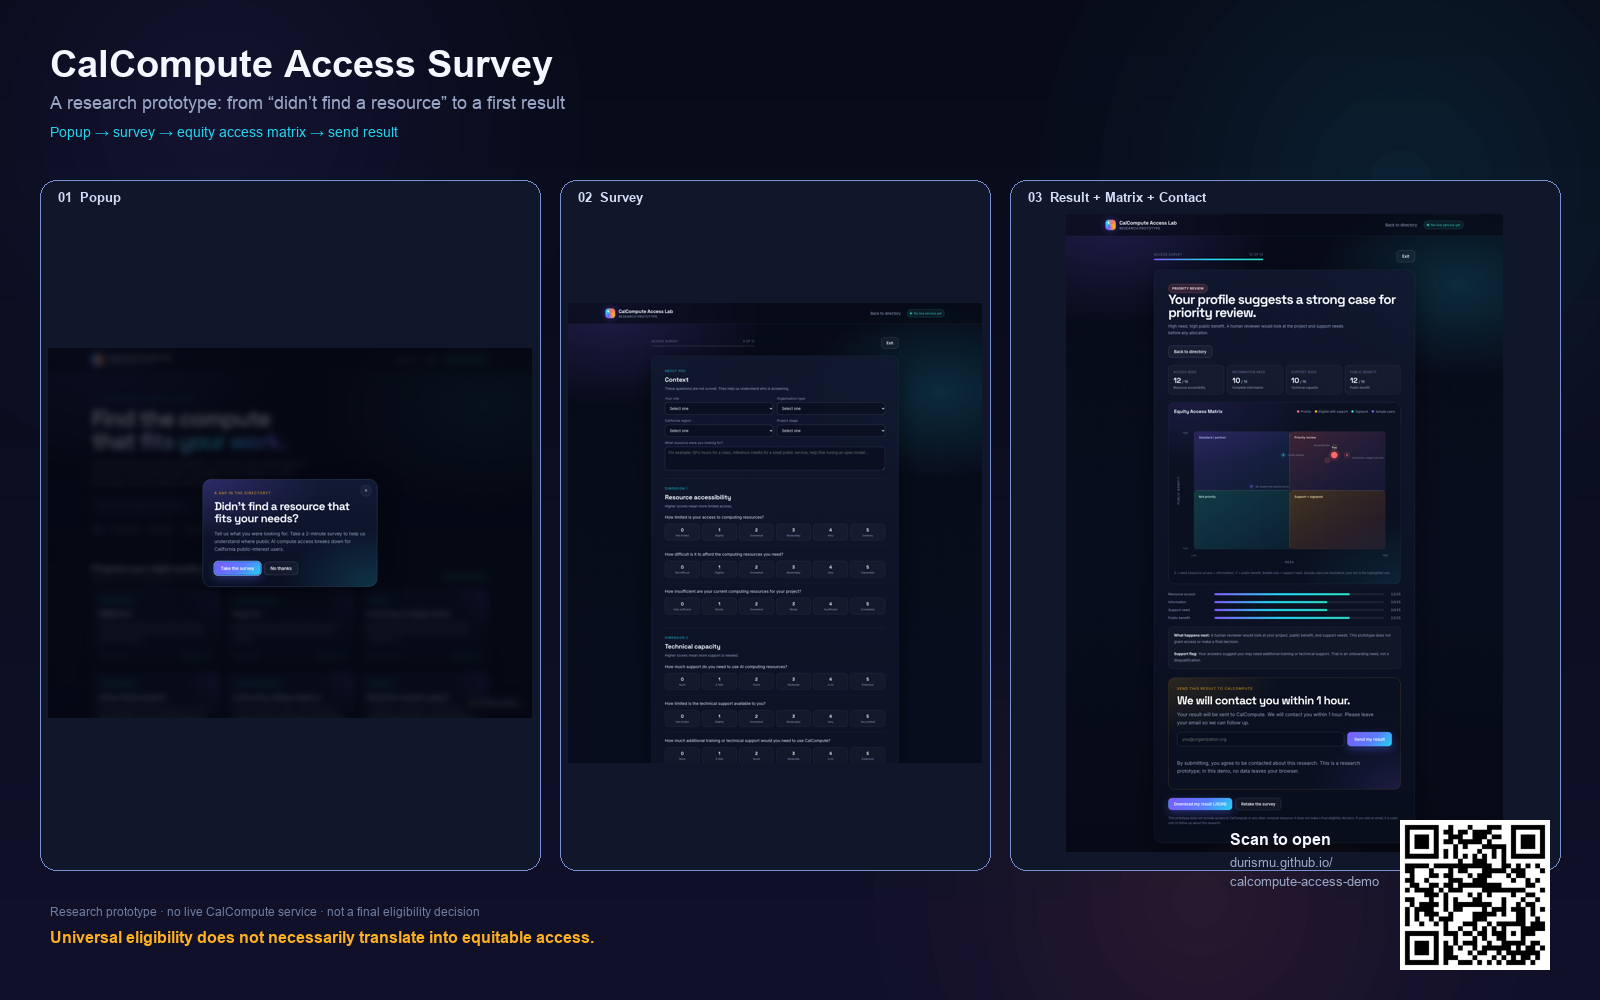
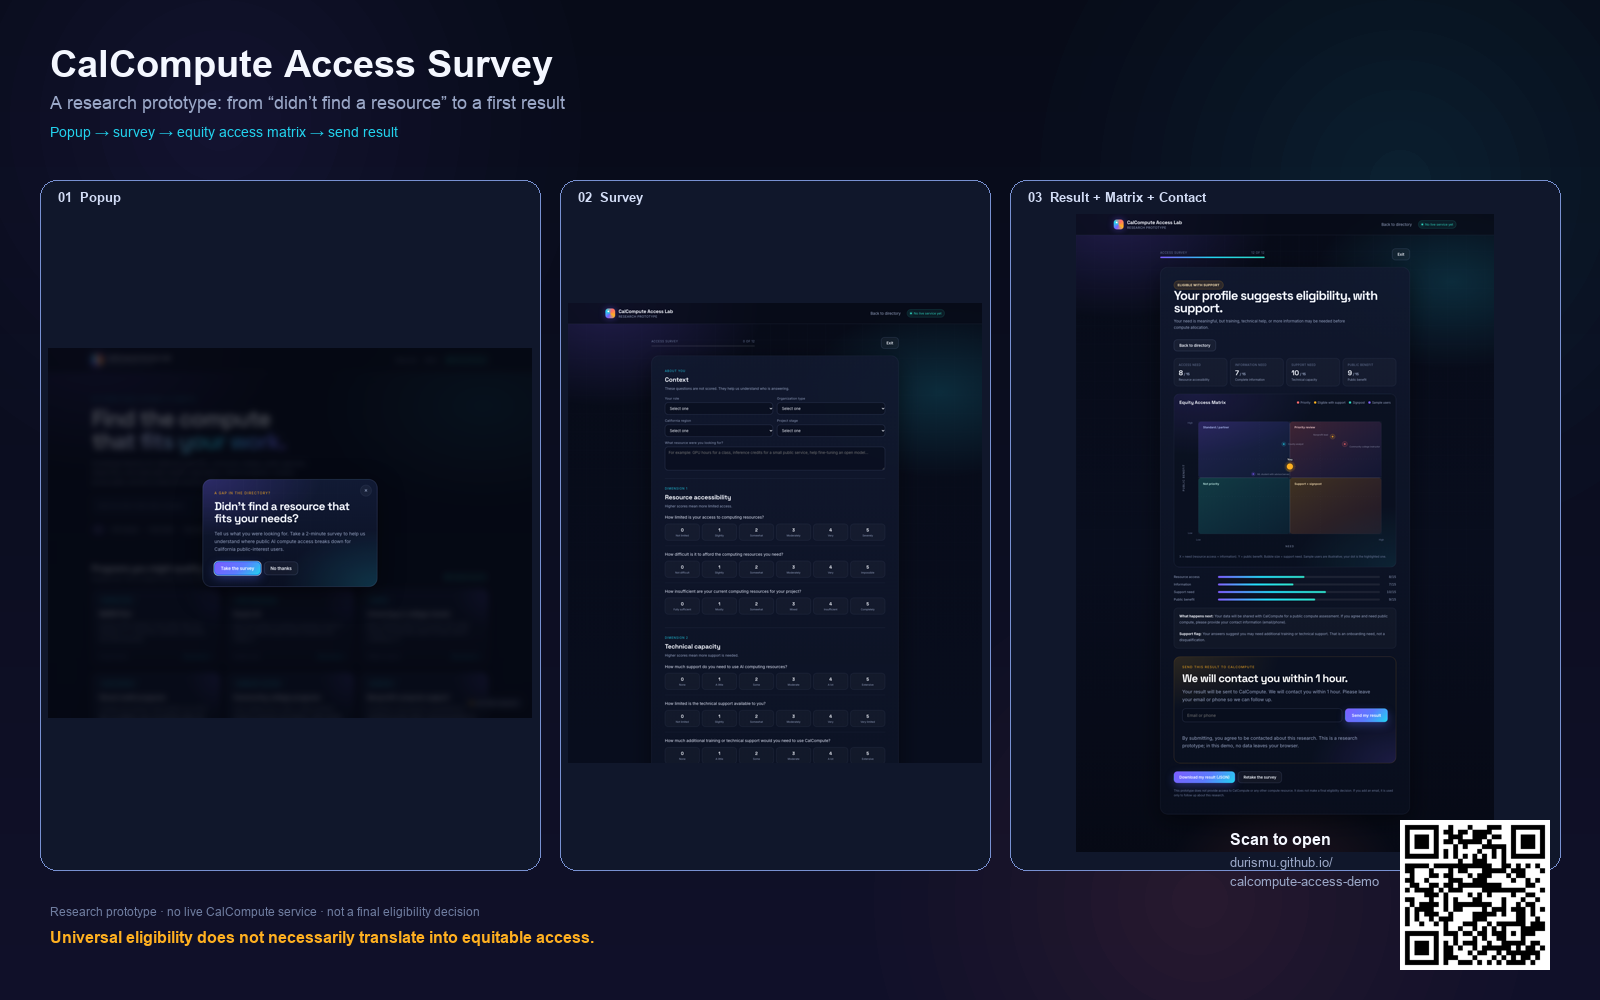
Update support result copy and contact form to email or phone

Changed region(s): [[0.7188, 0.527, 0.875, 0.837], [0.7188, 0.248, 0.875, 0.496], [0.6875, 0.217, 0.7188, 0.248]]

diff --git a/assets/survey.js b/assets/survey.js
@@ -75,7 +75,7 @@
       className: "band-support",
       title: "Your profile suggests eligibility, with support.",
       sub: "Your need is meaningful, but training, technical help, or more information may be needed before compute allocation.",
-      next: "<strong>What happens next:</strong> You would be routed to a supported onboarding track: training, office hours, and technical help before a compute allocation.",
+      next: "<strong>What happens next:</strong> Your data will be shared with CalCompute for a public compute assessment. If you agree and need public compute, please provide your contact information (email/phone).",
     },
     signpost: {
       label: "Signpost",
@@ -98,7 +98,7 @@
   const downloadBtn = document.getElementById("downloadBtn");
   const retakeBtn = document.getElementById("retakeBtn");
   const contactForm = document.getElementById("contactForm");
-  const contactEmail = document.getElementById("contactEmail");
+  const contactValue = document.getElementById("contactValue");
   const contactStatus = document.getElementById("contactStatus");
   const contactSubmit = document.getElementById("contactSubmit");
 
@@ -227,7 +227,8 @@
 
     lastPayload = {
       timestamp: new Date().toISOString(),
-      email: "",
+      contact: "",
+      contactType: "",
       scores: {
         resourceAccess: access,
         information: info,
@@ -265,7 +266,7 @@
     result.classList.remove("show");
     form.style.display = "none";
     intro.style.display = "block";
-    if (contactEmail) contactEmail.disabled = false;
+    if (contactValue) contactValue.disabled = false;
     if (contactSubmit) contactSubmit.disabled = false;
     if (contactStatus) {
       contactStatus.textContent = "";
@@ -320,18 +321,22 @@
   contactForm && contactForm.addEventListener("submit", function (event) {
     event.preventDefault();
     if (!lastPayload) return;
-    const email = (contactEmail.value || "").trim();
-    const valid = /^[^\s@]+@[^\s@]+\.[^\s@]+$/.test(email);
-    if (!valid) {
-      contactStatus.textContent = "Please enter a valid email address.";
+    const value = (contactValue.value || "").trim();
+    const emailRe = /^[^\s@]+@[^\s@]+\.[^\s@]+$/;
+    const digits = value.replace(/\D/g, "");
+    const phoneOk = /^[+()\d][\d\s().-]{6,}$/.test(value) && digits.length >= 7;
+    const isEmail = emailRe.test(value);
+    if (!isEmail && !phoneOk) {
+      contactStatus.textContent = "Please enter a valid email address or phone number.";
       contactStatus.classList.add("error");
-      contactEmail.focus();
+      contactValue.focus();
       return;
     }
-    lastPayload.email = email;
+    lastPayload.contact = value;
+    lastPayload.contactType = isEmail ? "email" : "phone";
     contactStatus.classList.remove("error");
-    contactStatus.textContent = "Thank you. Your result has been sent to CalCompute. We will contact you within 1 hour.";
-    contactEmail.disabled = true;
+    contactStatus.textContent = "Thank you. Your contact information has been sent to CalCompute. We will contact you within 1 hour.";
+    contactValue.disabled = true;
     contactSubmit.disabled = true;
   });
 
@@ -346,10 +351,13 @@
     intro.style.display = "none";
     form.style.display = "block";
   }
-  if (params.get("demo") === "result") {
+  const demoParam = params.get("demo");
+  if (demoParam === "result" || demoParam === "support") {
     intro.style.display = "none";
     form.style.display = "block";
-    const demo = { q1: 4, q2: 4, q3: 4, q4: 4, q5: 3, q6: 3, q7: 4, q8: 3, q9: 3, q10: 4, q11: 4, q12: 4 };
+    const demo = demoParam === "support"
+      ? { q1: 3, q2: 3, q3: 2, q4: 4, q5: 3, q6: 3, q7: 3, q8: 2, q9: 2, q10: 3, q11: 3, q12: 3 }
+      : { q1: 4, q2: 4, q3: 4, q4: 4, q5: 3, q6: 3, q7: 4, q8: 3, q9: 3, q10: 4, q11: 4, q12: 4 };
     Object.keys(demo).forEach(function (id) {
       const input = document.getElementById(id + "_" + demo[id]);
       if (input) input.checked = true;

diff --git a/survey/index.html b/survey/index.html
@@ -241,11 +241,11 @@
         <h3>We will contact you within 1 hour.</h3>
         <p>
           Your result will be sent to CalCompute. We will contact you within 1 hour.
-          Please leave your email so we can follow up.
+          Please leave your email or phone so we can follow up.
         </p>
         <form class="contact-form" id="contactForm" novalidate>
-          <label class="sr-only" for="contactEmail">Email address</label>
-          <input type="email" id="contactEmail" name="email" placeholder="you@organization.org" autocomplete="email" required>
+          <label class="sr-only" for="contactValue">Email or phone</label>
+          <input type="text" id="contactValue" name="contact" placeholder="Email or phone" autocomplete="email" inputmode="text" required>
           <button class="btn btn-primary" type="submit" id="contactSubmit">Send my result</button>
         </form>
         <p class="contact-status" id="contactStatus" role="status" aria-live="polite"></p>
